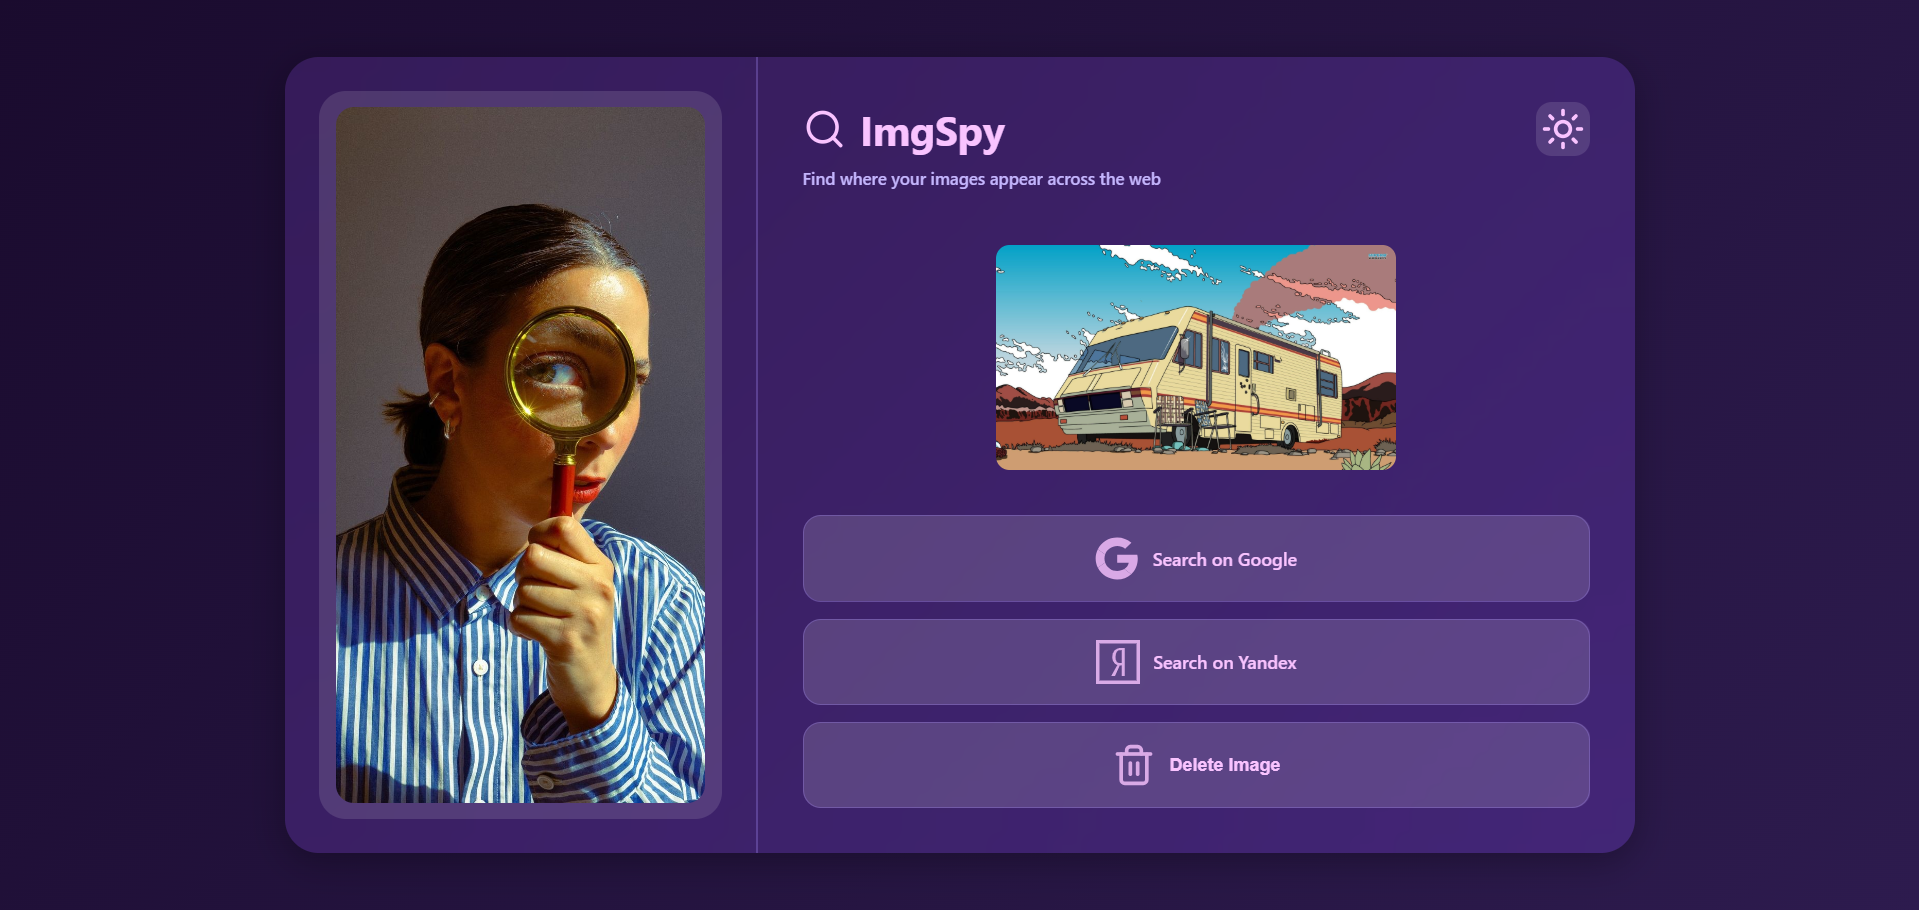
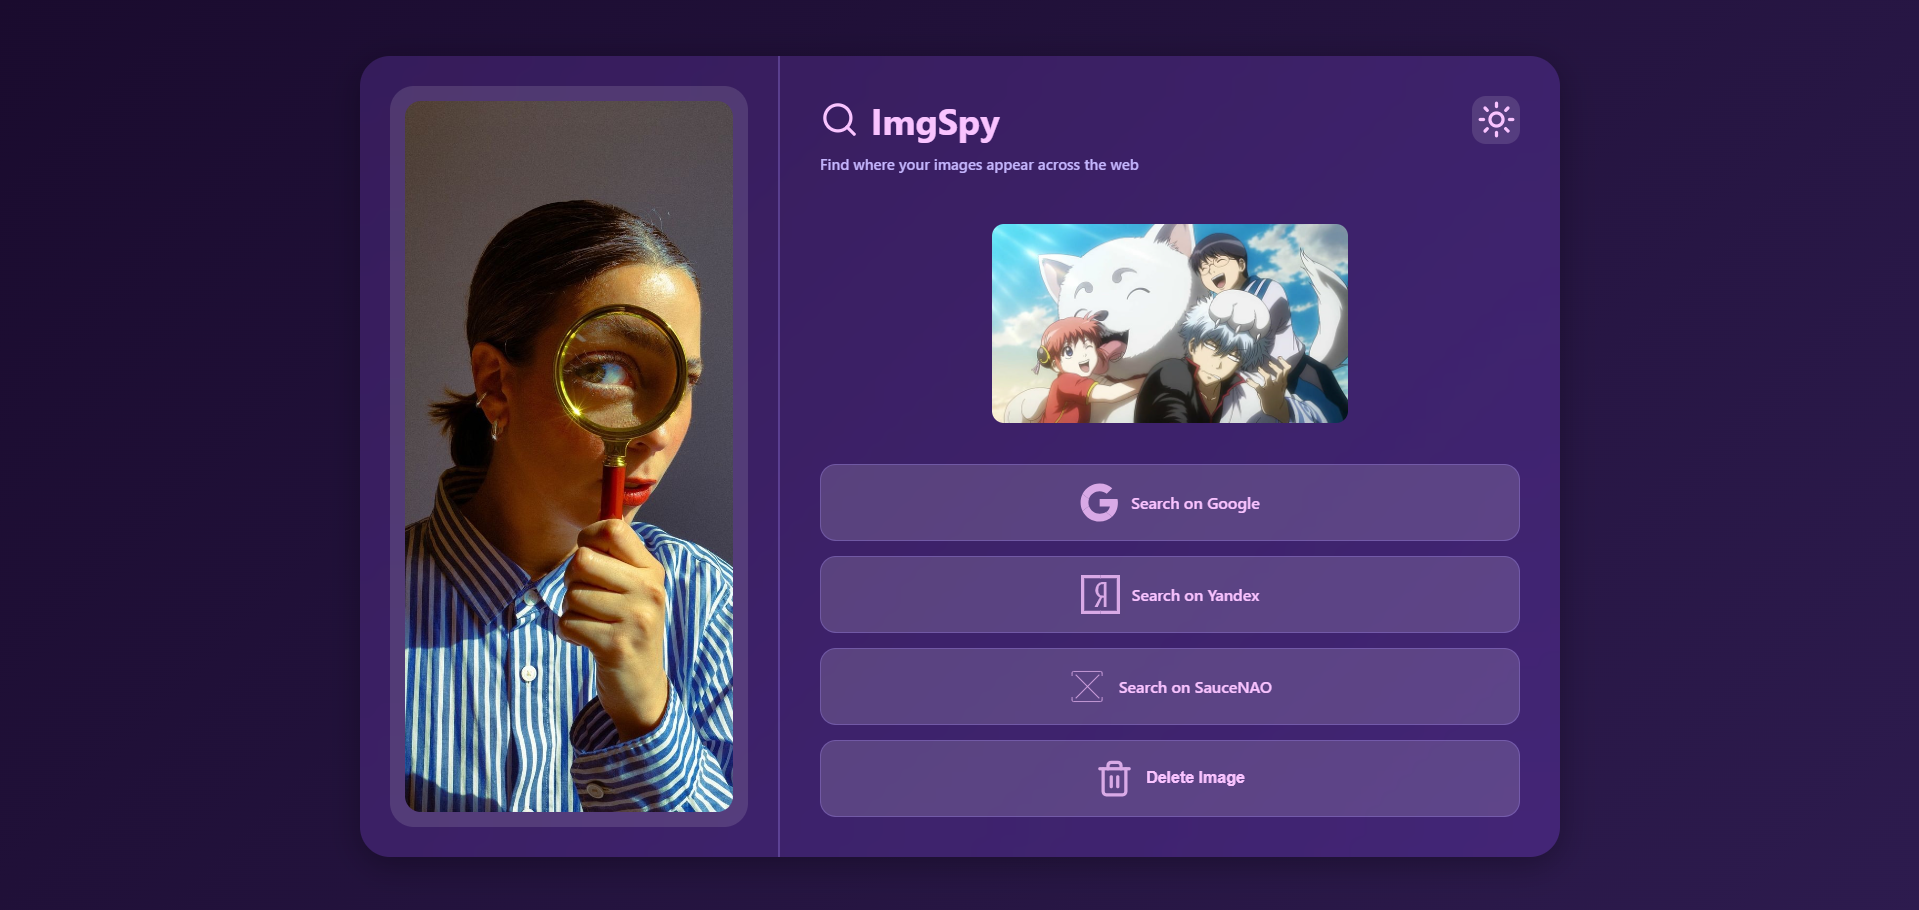
Update
1. Removed camera on mobile for file support
2. Added saucenao
3. Removed Google link for google lens support

diff --git a/app.js b/app.js
@@ -7,25 +7,24 @@ const themeIcon = document.getElementById('themeIcon');
 const searchActions = document.getElementById('searchActions');
 const googleActionBtn = document.getElementById('googleActionBtn');
 const yandexActionBtn = document.getElementById('yandexActionBtn');
+const saucenaoActionBtn = document.getElementById('saucenaoActionBtn');
 const deleteActionBtn = document.getElementById('deleteActionBtn');
-const sidebarImageContainer = document.querySelector('.preview-image-container');
 const imagePreview = document.getElementById('imagePreview');
 const previewImg = document.getElementById('previewImg');
 
 let currentImageUrl = null;
-let uploadedFileName = null;
 
 themeToggle.addEventListener('click', () => {
-    const isLight = document.body.classList.toggle('dark');
-    themeIcon.src = isLight ? 'icons/sun.svg' : 'icons/moon.svg';
-    themeIcon.alt = isLight ? 'Light mode' : 'Dark mode';
-    localStorage.setItem('theme', isLight ? 'light' : 'dark');
+    const isDark = document.body.classList.toggle('dark');
+    themeIcon.src = isDark ? 'icons/moon.svg' : 'icons/sun.svg';
+    themeIcon.alt = isDark ? 'Dark mode' : 'Light mode';
+    localStorage.setItem('theme', isDark ? 'dark' : 'light');
 });
 
-if (localStorage.getItem('theme') === 'light') {
-    document.body.classList.add('light');
-    themeIcon.src = 'icons/sun.svg';
-    themeIcon.alt = 'Light mode';
+if (localStorage.getItem('theme') === 'dark') {
+    document.body.classList.add('dark');
+    themeIcon.src = 'icons/moon.svg';
+    themeIcon.alt = 'Dark mode';
 }
 
 async function handleFile(file) {
@@ -73,7 +72,15 @@ document.addEventListener('paste', (e) => {
 function showError(msg) {
     error.textContent = msg;
     error.classList.add('active');
-    setTimeout(() => error.classList.remove('active'), 5000);
+
+    setTimeout(() => {
+        error.style.animation = 'fadeOut 0.3s ease-out';
+    }, 4700);
+    
+    setTimeout(() => {
+        error.classList.remove('active');
+        error.style.animation = '';
+    }, 5000);
 }
 
 async function uploadImage(file) {
@@ -86,10 +93,16 @@ async function uploadImage(file) {
         formData.append('filenamelen', '16');
         formData.append('fileToUpload', file);
 
+        const controller = new AbortController();
+        const timeoutId = setTimeout(() => controller.abort(), 30000);
+
         const response = await fetch('https://litterbox.catbox.moe/resources/internals/api.php', {
             method: 'POST',
-            body: formData
+            body: formData,
+            signal: controller.signal
         });
+
+        clearTimeout(timeoutId);
 
         if (!response.ok) {
             throw new Error('Upload failed');
@@ -100,18 +113,22 @@ async function uploadImage(file) {
             throw new Error('Invalid URL received');
         }
         currentImageUrl = url;
-        uploadedFileName = file.name;
         showUploadedImagePreview(file);
         uploadArea.style.display = 'none';
         imagePreview.classList.add('active');
         searchActions.style.display = 'flex';
-        
-        googleActionBtn.href = `https://www.google.com/searchbyimage?image_url=${encodeURIComponent(url)}`;
+        googleActionBtn.href = `https://lens.google.com/uploadbyurl?url=${encodeURIComponent(url)}`;
         yandexActionBtn.href = `https://yandex.com/images/search?url=${encodeURIComponent(url)}&rpt=imageview`;
+        saucenaoActionBtn.href = `https://saucenao.com/search.php?url=${encodeURIComponent(url)}`;
 
     } catch (err) {
         console.error('Upload error:', err);
-        showError(`Failed to upload "${file.name}". Please try again.`);
+        if (err.name === 'AbortError') {
+            showError('Upload timed out. Litterbox might be down. Please try again.');
+        } else {
+            showError(`Failed to upload "${file.name}". Please try again.`);
+        }
+        resetToUploadState();
     } finally {
         loading.classList.remove('active');
     }
@@ -131,7 +148,6 @@ function resetToUploadState() {
     uploadArea.style.display = 'block';
     previewImg.src = '';
     currentImageUrl = null;
-    uploadedFileName = null;
 }
 
 deleteActionBtn.addEventListener('click', () => {

diff --git a/index.html b/index.html
@@ -3,10 +3,11 @@
 <head>
     <meta charset="UTF-8" />
     <meta name="viewport" content="width=device-width, initial-scale=1.0, maximum-scale=1.0, user-scalable=no" />
-    <meta name="apple-mobile-web-app-capable" content="yes">
+<meta name="apple-mobile-web-app-capable" content="yes">
+<meta name="mobile-web-app-capable" content="yes">
     <meta name="theme-color" content="#a78bfa">
     <title>ImgSpy – Reverse Image Search</title>
-<link rel="icon" type="image/svg+xml" href="icons/search.svg">
+    <link rel="icon" type="image/svg+xml" href="icons/search.svg">
     <link rel="stylesheet" href="styles.css" />
 </head>
 <body>
@@ -31,7 +32,7 @@
                 <img src="icons/upload.svg" alt="Upload" class="upload-icon" />
                 <p class="upload-text">Drop images here, paste, or click to browse</p>
                 <p class="upload-hint">JPG, PNG, GIF, WEBP</p>
-                <input type="file" id="fileInput" accept="image/*" capture="environment" style="display:none;">
+                <input type="file" id="fileInput" accept="image/*" style="display:none;">
             </div>
             <div class="image-preview" id="imagePreview">
       <img id="previewImg" alt="Preview">
@@ -44,6 +45,10 @@
                 <a href="#" class="search-action-btn yandex-action" id="yandexActionBtn" target="_blank" rel="noopener noreferrer">
                     <img src="icons/yandex.svg" alt="Yandex" class="action-icon" />
                     <span>Search on Yandex</span>
+                </a>
+                <a href="#" class="search-action-btn saucenao-action" id="saucenaoActionBtn" target="_blank" rel="noopener noreferrer">
+                    <img src="icons/saucenao.svg" alt="SauceNAO" class="action-icon" />
+                    <span>Search on SauceNAO</span>
                 </a>
                 <button class="search-action-btn delete-action" id="deleteActionBtn">
                     <img src="icons/trash.svg" alt="Delete" class="action-icon" />

diff --git a/readme.md b/readme.md
@@ -1,34 +1,34 @@
 # 🔍 ImgSpy
-**A beautiful, privacy-focused reverse image search tool with glassmorphism UI**
+**A beautiful, privacy-focused reverse image search tool with glassmorphism UI.**
 ---
 
 ## About
 **ImgSpy** is a lightweight, client-side reverse image search tool that helps you find where your images appear across the web. Built with vanilla JavaScript and featuring a stunning glassmorphism design inspired by iOS 26 aesthetics.
 
 ### Why ImgSpy?
-- **Privacy First** - All processing happens in your browser
-- **Fast & Lightweight** - No heavy frameworks or dependencies
-- **Beautiful UI** - Glassmorphism design with dark/light themes
-- **Mobile Ready** - Fully responsive with camera support
-- **Free & Open Source** - No API keys or accounts required
+- **Privacy First** - All processing happens in your browser.
+- **Fast & Lightweight** - No heavy frameworks or dependencies.
+- **Beautiful UI** - Glassmorphism design with dark/light themes.
+- **Free & Open Source** - No API keys or accounts required.
 ---
 
 ## Features
 ### Image Upload
-- **Drag & Drop** - Simply drag images into the upload area
-- **Click to Browse** - Traditional file picker support
-- **Paste from Clipboard** - Ctrl+V to paste images
-- **Single File Focus** - Clean, focused search experience
+- **Drag & Drop** - Simply drag images into the upload area.
+- **Click to Browse** - Traditional file picker support.
+- **Paste from Clipboard** - Ctrl+V to paste images.
+- **Single File Focus** - Clean, focused search experience.
 
 ### Search Engines
-- **Google Images** - Search on Google's vast image database
-- **Yandex Images** - Alternative search with Yandex's engine
+- **Google LensS** - Search on Google's vast image database.
+- **Yandex Images** - Alternative search with Yandex's engine.
+- **SauceNao Images** - High-accuracy reverse search for artwork, anime, and manga sources (Pixiv, ArtStation, etc.).
 
 ### Privacy & Storage
-- **Temporary Upload** - Images auto-delete after 1 hour
-- **No Tracking** - Zero analytics or user tracking
-- **Client-Side Processing** - Your images stay private
-- **Powered by Litterbox** - Reliable temporary file hosting
+- **Temporary Upload** - Images auto-delete after 1 hour.
+- **No Tracking** - Zero analytics or user tracking.
+- **Client-Side Processing** - Your images stay private.
+- **Powered by Litterbox** - Reliable temporary file hosting.
 ---
 
 ### Screenshots
@@ -37,32 +37,38 @@
 **Dark Mode**
 ![Dark Mode](screenshots/DarkMode.png)
 **Add Image**
+- Light Mode
 ![Add Image Light](screenshots/AddImageLight.png)
+- Dark Mode
 ![Add Image Dark](screenshots/AddImageDark.png)
+
 **Search Results**
+- Google
 ![Google Results](screenshots/GoogleResults.png)
+- Yandex
 ![Yandex Results](screenshots/YandexResults.png)
+- SauceNao
+![SauceNao Results](screenshots/SauceNaoResults.png)
 ---
 
 ## Usage
-### Basic Workflow
 1. **Upload an Image**
-   - Drag and drop an image
-   - Click the upload area to browse
-   - Paste from clipboard (Ctrl+V)
+   - Drag and drop an image.
+   - Click the upload area to browse.
+   - Paste from clipboard (Ctrl+V).
 
 2. **Search**
-   - Click "Search on Google" for Google Images
-   - Click "Search on Yandex" for Yandex Images
-   - Results open in new tabs
+   - Click "Search on Google" for Google Lens. 
+   - Click "Search on Yandex" for Yandex Images.
+   - Click "Search on SauceNao" for SauceNao Images.
+   - Results open in new tabs.
 
 3. **Delete & Reset**
-   - Click "Delete Image" to remove and start over
-   - Upload a new image anytime
+   - Click "Delete Image" to remove and start over.
+   - Upload a new image anytime.
 ---
 
 ### Planned Features
-- More search engine integrations (Bing, TinEye, SauceNao)
-
+- More search engine integrations (Bing, TinEye)
 
 ## [Try it out](https://adarshakarki.github.io/Imgspy/)

diff --git a/extensions.md b/extensions.md
@@ -1,0 +1,8 @@
+1. **Google Lens:** normal google
+2. **Yandex Images:** can search faces (Russian)
+3. **Bing Visual Search:** for product only other are shit
+4. **TinEye**:** if find same gives results otherwise nope
+5. **Baidu Image Search:** for Chinese websites
+6. **Sogou:** another Chinese shit 
+7. **Pinterest visual:** google will handle
+8. **Reddit (via Karma Decay):** reddit reverse but google handles this too
